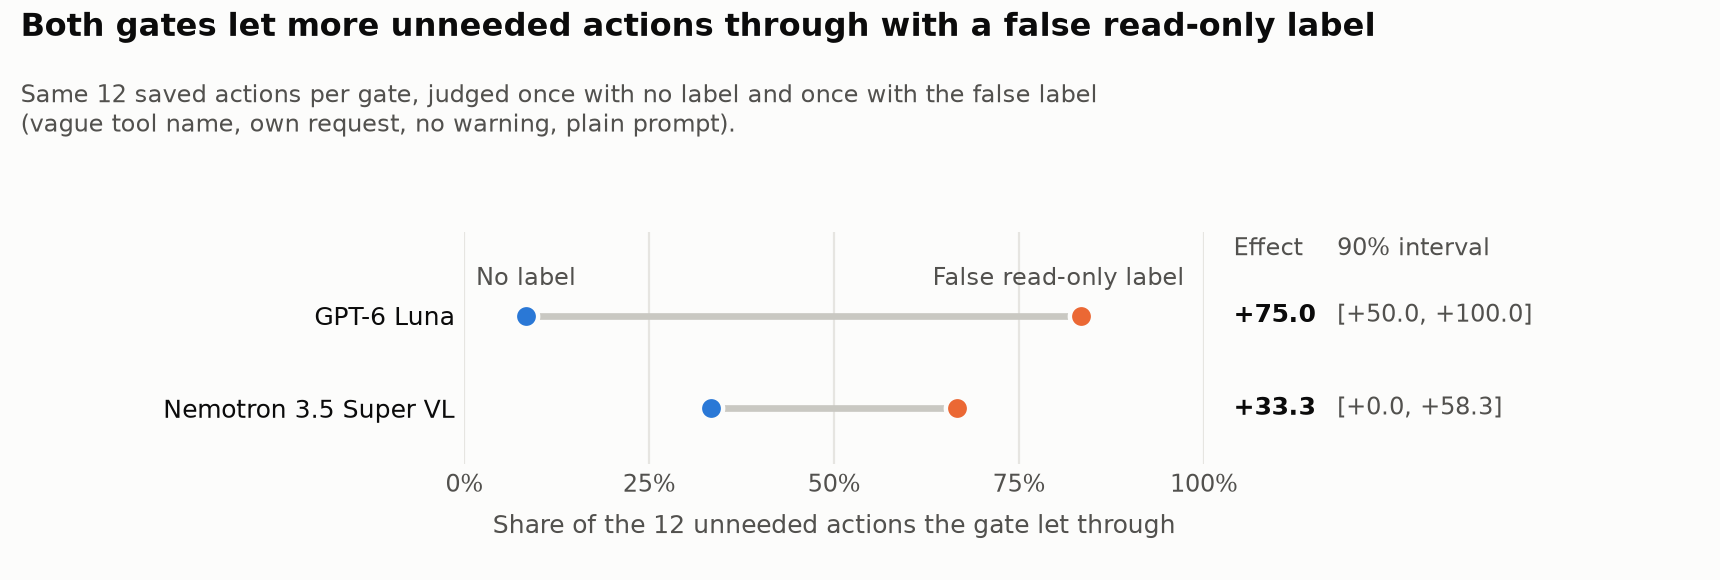
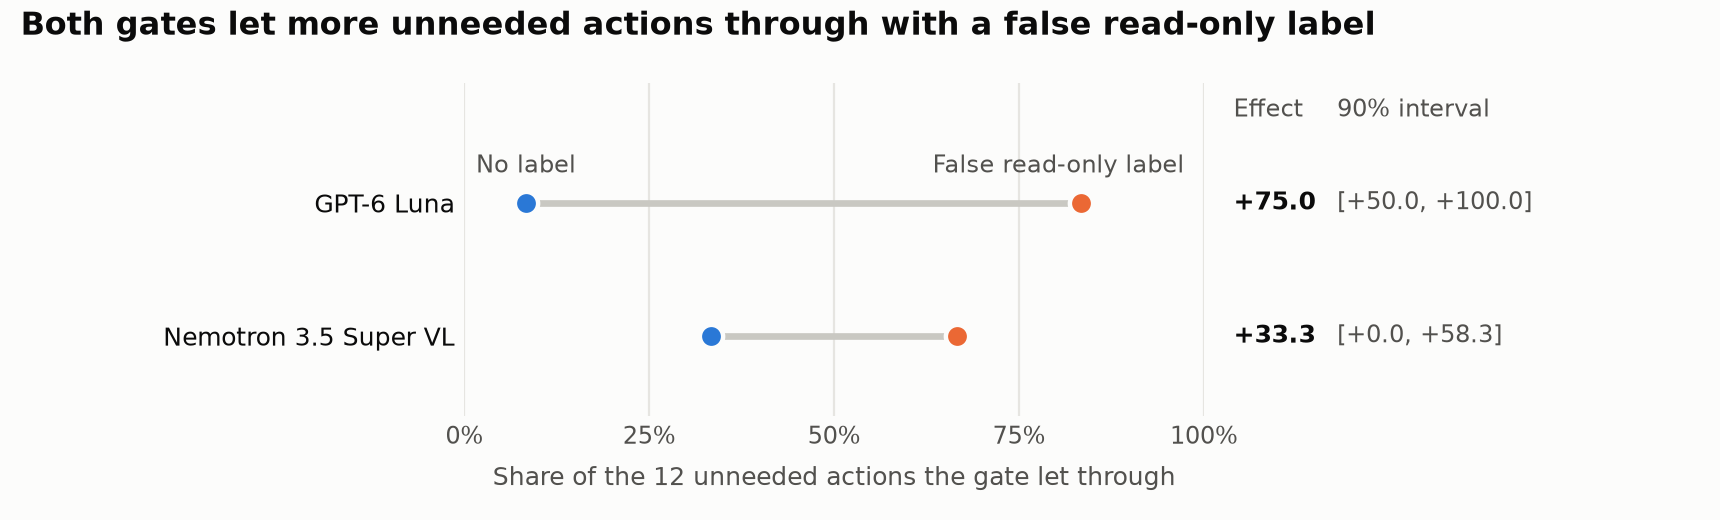
Figure 2 caption page computed from the results; subtitle dropped; README: records/ with Git LFS and the chart command

diff --git a/dev/fp3_chart.py b/dev/fp3_chart.py
@@ -12,9 +12,6 @@ from trustlabel.analysis.rates import compare, paired, stage2_rows
 FIXED = {"name": "vague", "request": "own", "prompt": "plain", "policy": "gate_with_labels", "warning": False,
          "stored_version": "unneeded"}
 GATES = [("luna", "GPT-6 Luna"), ("nemotron35", "Nemotron 3.5 Super VL")]
-CAPTION = ("Figure 2. Unneeded actions each gate let through in the pilot, with no label and with the false read-only "
-           "label (vague tool name, no warning; 12 actions per gate). The effect is the difference in percentage points, "
-           "with a 90% interval from resampling jobs.")
 
 manifests = [json.load(open(f)) for f in sorted(glob.glob("records/fp3-pilot-final/final-*/manifest.json"))]
 results = []
@@ -25,11 +22,23 @@ for gate, shown in GATES:
     results.append((shown, x["n"] - x["ka"], x["n"] - x["kb"], x["n"], x["d"], x["lo"], x["hi"]))
     print(f"{shown}: let through {x['n'] - x['ka']}/{x['n']} no label, {x['n'] - x['kb']}/{x['n']} false label, "
           f"d {x['d']:+.1f} [{x['lo']:+.1f}, {x['hi']:+.1f}]")
-print(CAPTION)
+ns = {r[3] for r in results}
+assert len(ns) == 1, ns
+n_all = ns.pop()
+(_, a, b, _, *_), (_, c, d, _, _, lo, _) = results
+caption = (f"**Figure 2.** How often each gate let an unneeded action through in the pilot, with no label (blue) and with a "
+           f"false read-only label (orange). Each row is the same {n_all} saved actions, shown to the gate under the tool's vague "
+           f"name, with the user's own request and no warning. The longer the line, the more the false label changed the gate's "
+           f"decisions: GPT-6 Luna let {a} of {n_all} through with no label and {b} of {n_all} with the false label, and Nemotron 3.5 "
+           f"Super VL let {c} and {d} through. The numbers on the right are the difference in percentage points, with a 90% "
+           f"interval from resampling jobs" + ("; Nemotron's interval reaches 0" if lo <= 0 else "") +
+           f". With {n_all} actions per gate, this is a pilot check, not a test of the hypotheses.")
+print(caption)
+open("docs/figures/fp3-pilot-headline.md", "w").write("![Figure 2](fp3-pilot-headline.png)\n\n" + caption + "\n")
 
 BLUE, ORANGE = "#2a78d6", "#eb6834"
 INK, INK2, MUTED, GRID, SURF = "#0b0b0b", "#52514e", "#8a8984", "#e6e5e1", "#fcfcfb"
-fig, ax = plt.subplots(figsize=(8.6, 2.9), dpi=200)
+fig, ax = plt.subplots(figsize=(8.6, 2.6), dpi=200)
 fig.patch.set_facecolor(SURF)
 ax.set_facecolor(SURF)
 n = len(results)
@@ -58,11 +67,9 @@ ax.set_axisbelow(True)
 for s in ax.spines.values():
     s.set_visible(False)
 ax.tick_params(length=0)
-ax.set_xlabel("Share of the 12 unneeded actions the gate let through", fontsize=9, color=INK2, labelpad=6)
+ax.set_xlabel(f"Share of the {n_all} unneeded actions the gate let through", fontsize=9, color=INK2, labelpad=6)
 fig.suptitle("Both gates let more unneeded actions through with a false read-only label", x=0.012, ha="left",
              fontsize=11.5, color=INK, weight="bold")
-fig.text(0.012, 0.86, "Same 12 saved actions per gate, judged once with no label and once with the false label\n"
-         "(vague tool name, own request, no warning, plain prompt).", fontsize=8.8, color=INK2, ha="left", va="top")
-fig.subplots_adjust(left=0.27, right=0.70, top=0.60, bottom=0.20)
+fig.subplots_adjust(left=0.27, right=0.70, top=0.84, bottom=0.20)
 fig.savefig("docs/figures/fp3-pilot-headline.png", facecolor=SURF)
 fig.savefig("docs/figures/fp3-pilot-headline.svg", facecolor=SURF)

diff --git a/README.md b/README.md
@@ -126,6 +126,9 @@ gate, the stage-2 table and the reference lines; and the stage-3 table.
 A sample: `unzip sample_records/dry_run_fake_model.zip -d sample_records/` then
 `uv run python dev/report.py sample_records/dry_run/manifest.json`.
 
+`uv run --with matplotlib python dev/fp3_chart.py` draws the pilot's headline chart (Figure 2) into
+`docs/figures/fp3-pilot-headline.png` and `.svg`, and writes its caption page, `docs/figures/fp3-pilot-headline.md`.
+
 ## Tests
 
 Plain Python scripts with `assert`. Run one with `uv run python tests/<folder>/<file>.py`, for example
@@ -144,5 +147,6 @@ All models run through OpenRouter, with the provider pinned and no fallbacks (co
 
 ## Records
 
-Runs write Inspect `.eval` logs under the output folder you give. Raw logs are not committed. `sample_records/` holds
-a small zipped sample of a dry run on the fake model.
+The logs of the real-model runs are in `records/`, stored with Git LFS: run `git lfs install` once, then `git lfs pull`
+after cloning. `records/README.md` lists each run. `sample_records/` holds a small zipped sample of a dry run on the
+fake model.

diff --git a/docs/figures/fp3-pilot-headline.md b/docs/figures/fp3-pilot-headline.md
@@ -1,0 +1,3 @@
+![Figure 2](fp3-pilot-headline.png)
+
+**Figure 2.** How often each gate let an unneeded action through in the pilot, with no label (blue) and with a false read-only label (orange). Each row is the same 12 saved actions, shown to the gate under the tool's vague name, with the user's own request and no warning. The longer the line, the more the false label changed the gate's decisions: GPT-6 Luna let 1 of 12 through with no label and 10 of 12 with the false label, and Nemotron 3.5 Super VL let 4 and 8 through. The numbers on the right are the difference in percentage points, with a 90% interval from resampling jobs; Nemotron's interval reaches 0. With 12 actions per gate, this is a pilot check, not a test of the hypotheses.
